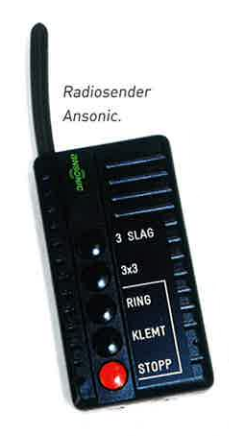
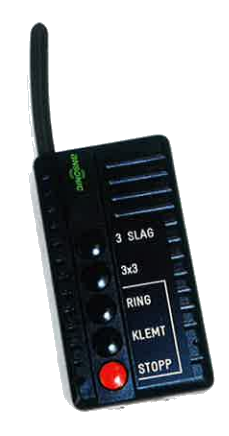
la til bilde tekst

diff --git a/index.html b/index.html
@@ -8,8 +8,8 @@
   <link rel="stylesheet" href="style.css">
 </head>
 <body>
-  <!-- Sidebar/header eller noe annent spnnende? -->
   <article>
+    <!-- side 1 -->
     <section  class="left-text">
         <p>Ja, noe er «på ferde» når kirkeklokkene ringer. I helgene er det gudstjenester og vigsler, og i uke dagene er det ofte begravelser som er «på ferde». Noen har kanskje også opplevd at klokkene varsler fare når de ringer intenst på ukjente tidspunkter? Klokkene kaller oss inn når vi døpes og følger oss den siste gangen ut. Klokkene er med oss hele livet.</p>
         <div><img src="kirkeklokka.png" alt="kirkeklokka er fra Ljan Kirke. Montert 2012-3" style="width: calc(834px - 213px); margin-top: -60px;"></div>
@@ -126,7 +126,7 @@
       </div>
     </section>
     <hr/>
-    <!-- Trenger sidetall og toptekst og bunntekst -->
+    <!-- sidetall og bunntekst -->
     <span class="bottom-text">
       16
       <span class="right">
@@ -137,14 +137,12 @@
     </span>
     <hr/>
     <hr/>
+    <!-- side 2 -->
     <section class="three-column">
       <div>
         <figure>
             <img src="radiosender.png" alt="Radiosender Ansonic.">
-            <!-- <figcaption>
-                Radiosender
-                Ansonic.
-            </figcaption> -->
+            <i class="image-text">Radiosender<br/>Ansonic.</i>
         </figure>
         <p>
             Daglig leder og 
@@ -346,7 +344,7 @@
       </div>
     </section>
     <hr/>
-    <!-- mer bunntekst -->
+    <!-- mer sidetall og bunntekst -->
     <span class="bottom-text">
         <img src="kirkeklokken.png">
         <span class="space">1</span>

diff --git a/style.css b/style.css
@@ -52,6 +52,7 @@ blockquote {
     line-height: 1.5;
 }
 figure {
+    position: relative;
     float: left;
     shape-outside: polygon(0 0, 58% 0, 85% 88%, 0 94%);
     margin-top: -40px;
@@ -62,6 +63,13 @@ figure img {
     float: left;
     margin-top: -40px;
     height: 350px;
+}
+.image-text {
+    position: absolute;
+    top: 25px;
+    left: 50px;
+    font-family: "Vegur", "Opens Sans", sans-serif;
+    font-size: 0.9em;
 }
 blockquote {
     margin-right: 0px;
